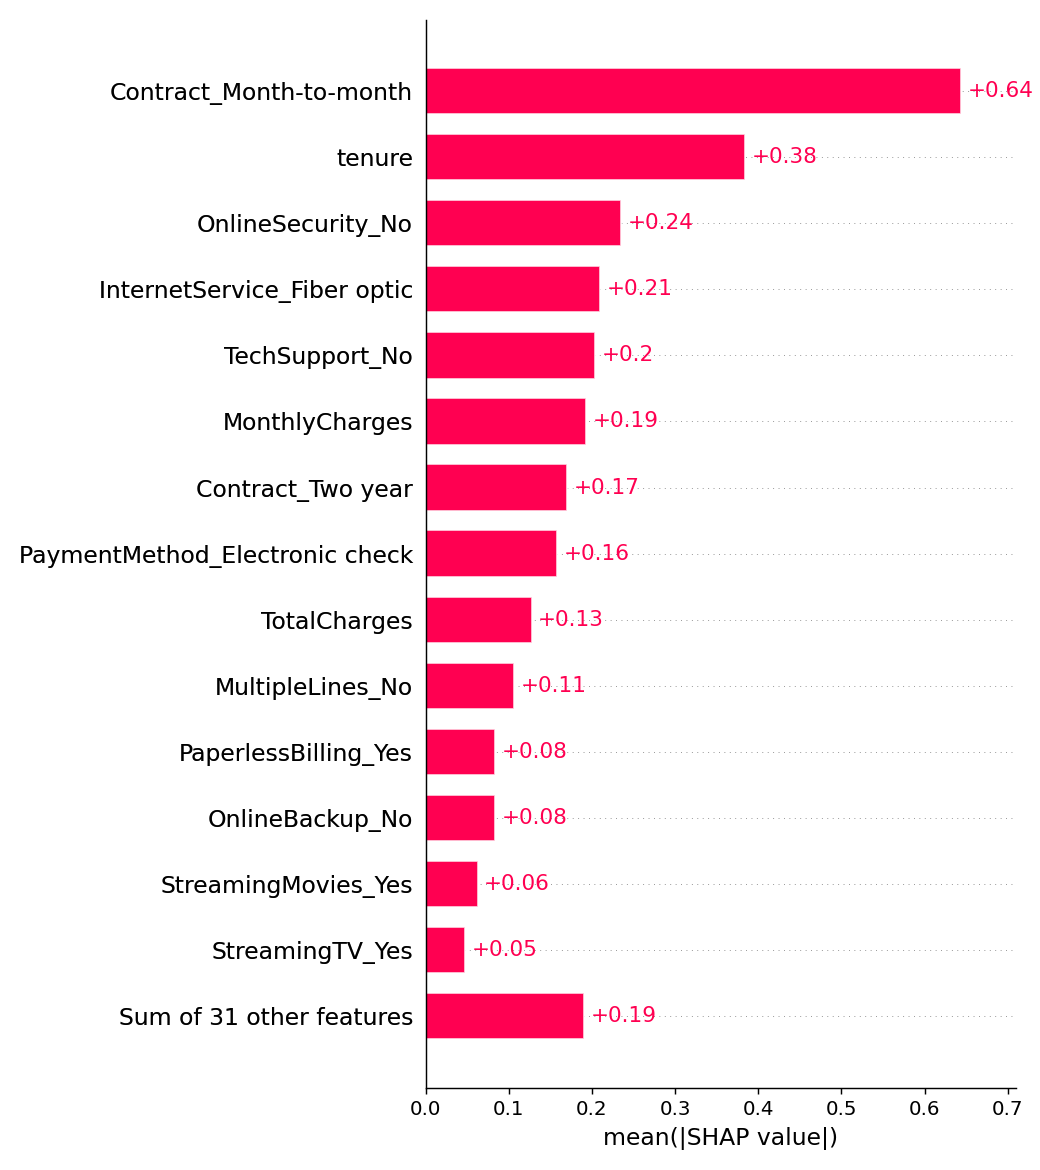
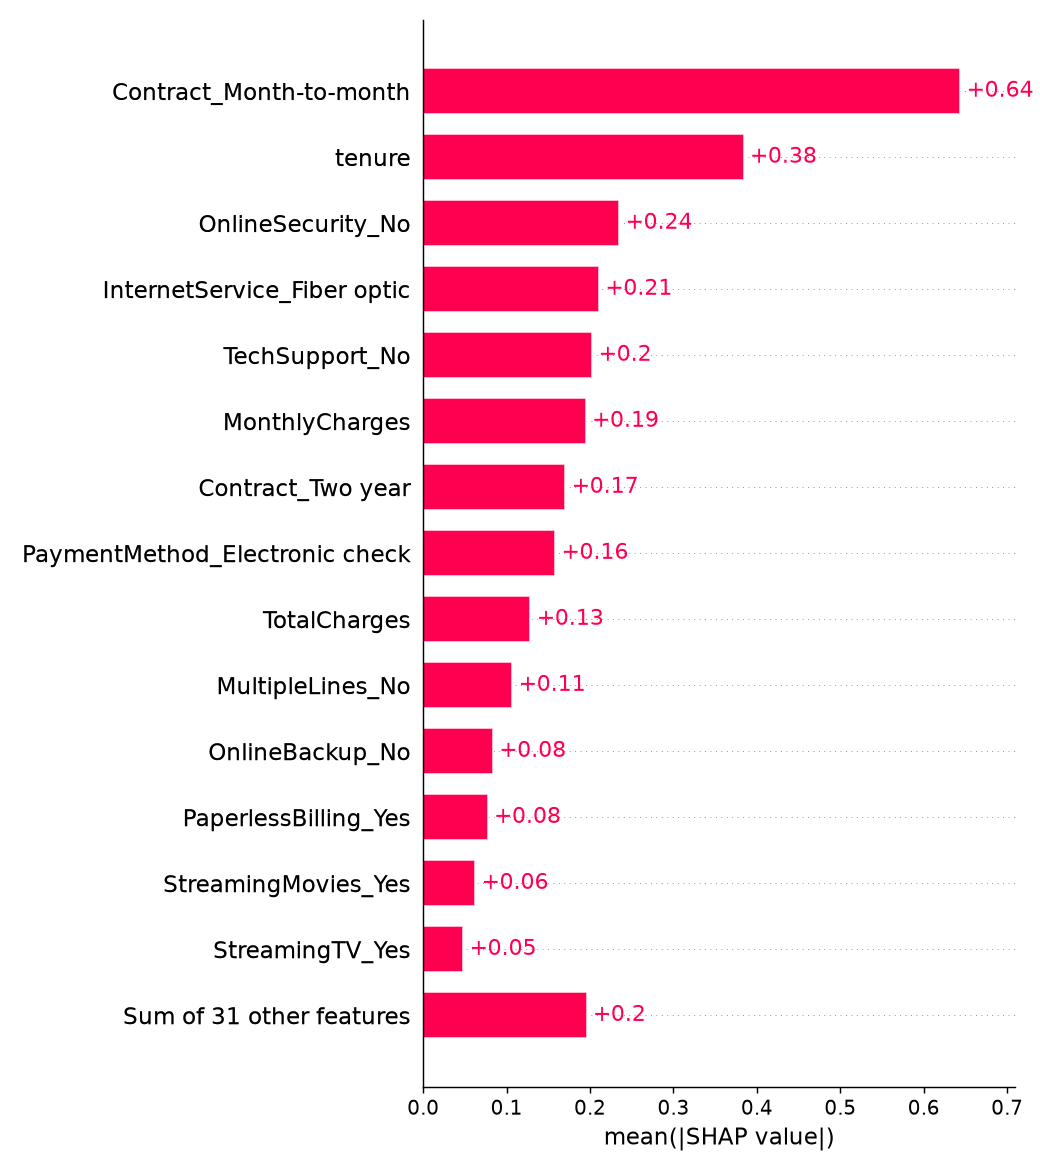
Fix per-customer SHAP chart

diff --git a/app/app.py b/app/app.py
@@ -3,10 +3,9 @@ import sys
 from pathlib import Path
 
 import joblib
-import matplotlib.pyplot as plt
 import pandas as pd
-import shap
 import streamlit as st
+from matplotlib.figure import Figure
 
 ROOT = Path(__file__).resolve().parent.parent
 sys.path.insert(0, str(ROOT))
@@ -61,8 +60,14 @@ with tab_predict:
     exp = explain(explainer, X)
     contrib = pd.Series(exp.values[0], index=X.columns).sort_values()
     st.subheader("Why this prediction?")
-    shap.plots.waterfall(exp[0], max_display=10, show=False)
-    st.pyplot(plt.gcf(), clear_figure=True)
+    top = contrib.reindex(contrib.abs().sort_values(ascending=False).head(10).index).sort_values()
+    fig = Figure(figsize=(7, 4))  # standalone figure: no shared pyplot state
+    ax = fig.subplots()
+    ax.barh(top.index, top.values, color=["#ff0051" if v > 0 else "#008bfb" for v in top])
+    ax.axvline(0, color="grey", lw=0.8)
+    ax.set_xlabel("Impact on churn risk (SHAP value, log-odds)  |  red = raises, blue = lowers")
+    fig.tight_layout()
+    st.pyplot(fig)
     st.caption("Raises the risk: " + ", ".join(contrib.tail(3).index[::-1]) +
                "  |  Lowers the risk: " + ", ".join(contrib.head(3).index))
 
